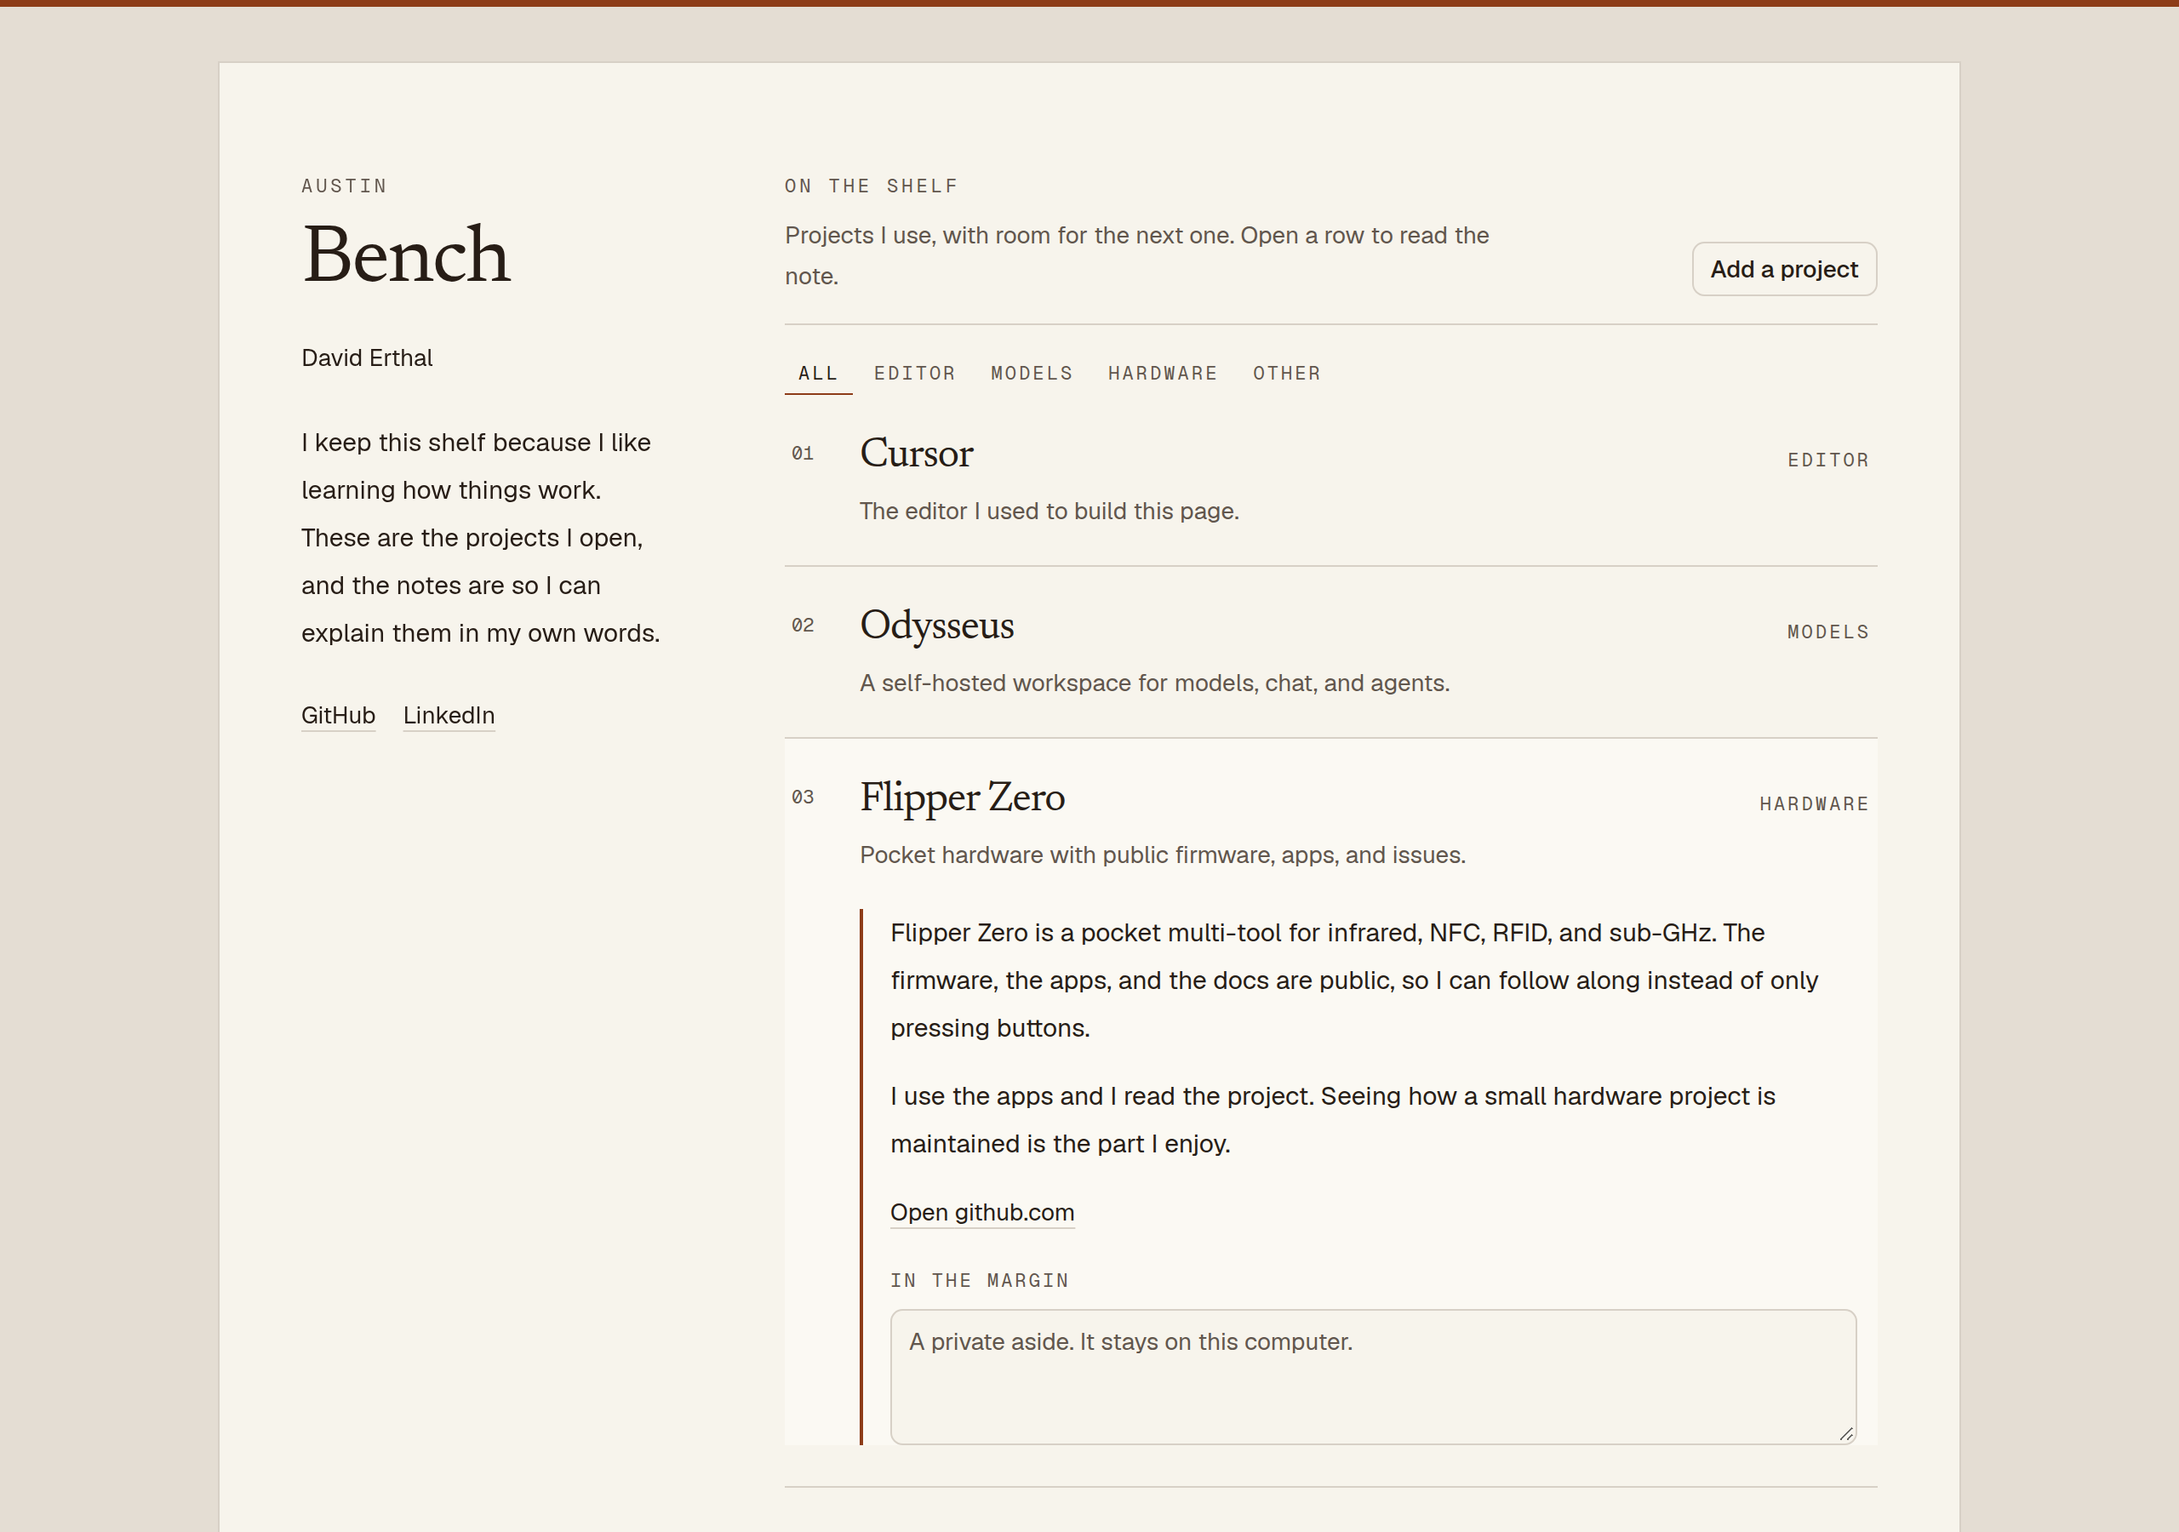
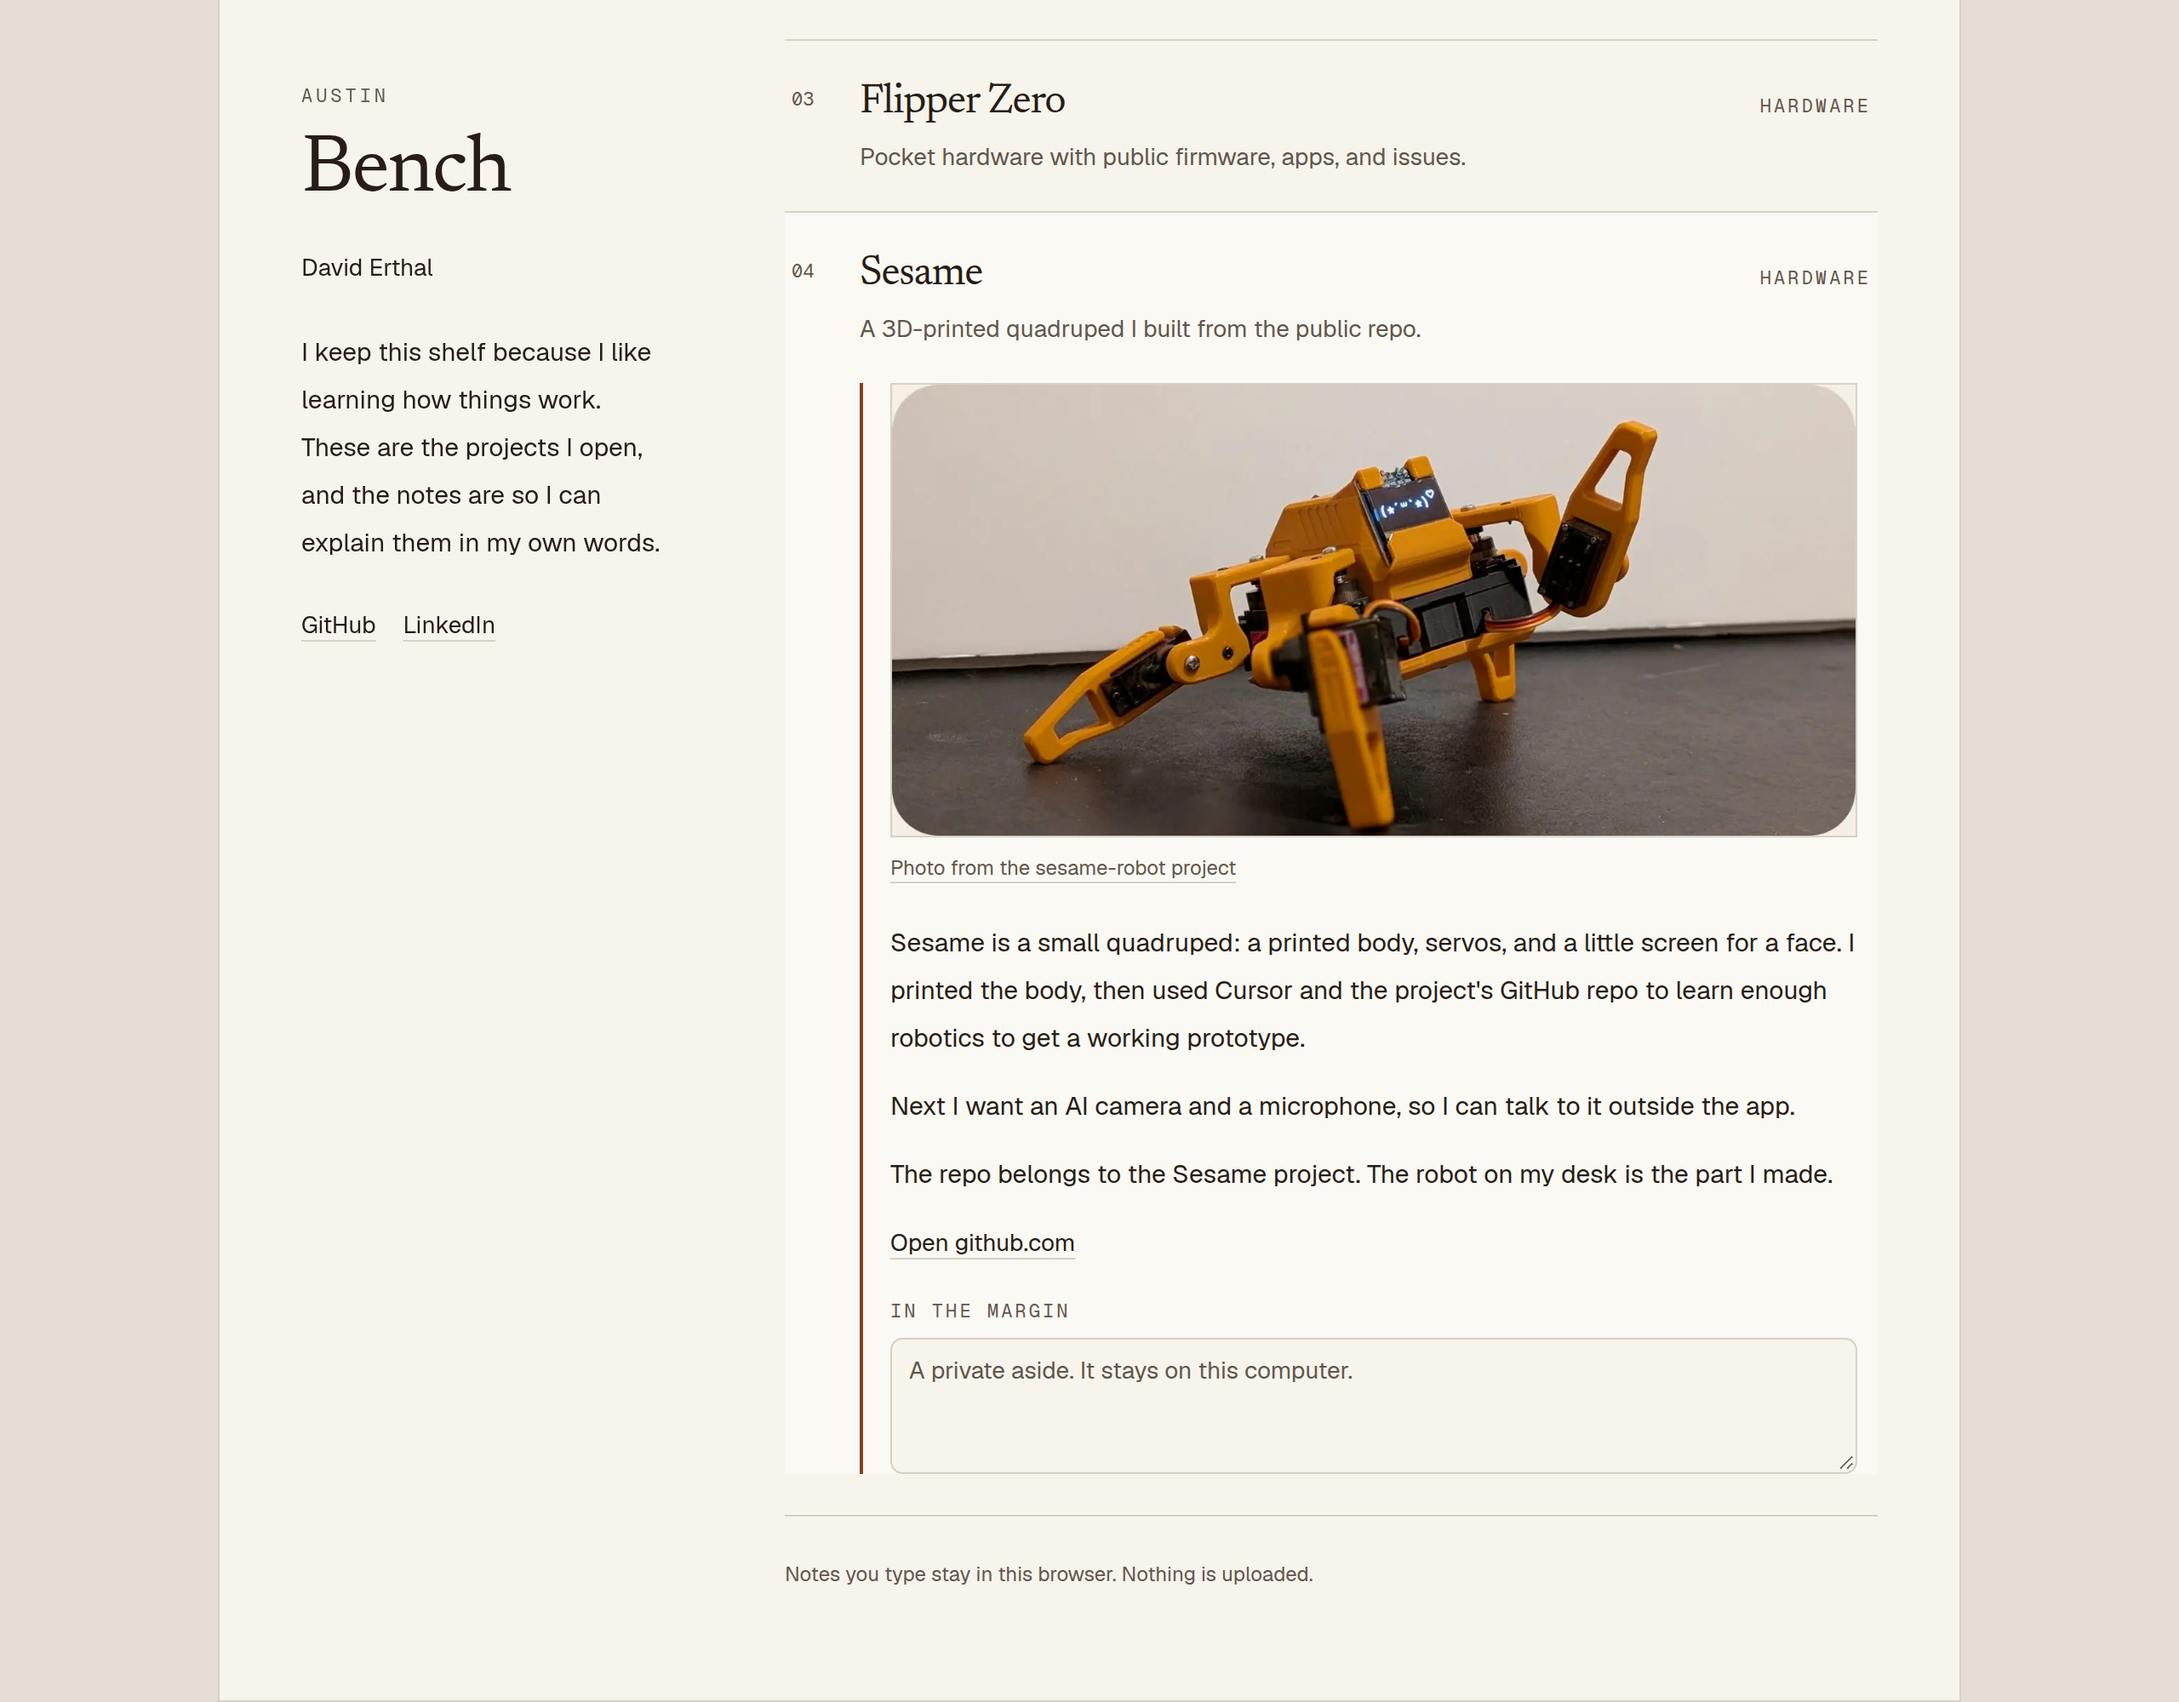
Add Sesame and photos to the shelf.
Sesame is the printed quadruped. Cursor, Flipper Zero, and Sesame now show a picture in the open note. Odysseus stays empty until a photo of the personal instance is added.

diff --git a/src/lib/shelf.ts b/src/lib/shelf.ts
@@ -14,6 +14,13 @@ export type ShelfItem = {
   summary: string
   essay: string
   origin: "seed" | "yours"
+  image?: string
+  imageAlt?: string
+  imageWidth?: number
+  imageHeight?: number
+  imageCredit?: string
+  imageCreditHref?: string
+  awaitingPhoto?: boolean
 }
 
 export type ShelfState = {
@@ -35,6 +42,12 @@ export const SEEDS: readonly ShelfItem[] = [
     essay: `I put this page together in Cursor. I describe a small thing, read what comes back, and change it until it sounds like me. That is how I learn the tool: by making something I can click, then figuring out what I still don't understand.
 
 The fun is the loop. Try something, run it, and keep going.`,
+    image: "/shelf/cursor.jpg",
+    imageAlt: "The Cursor editor, with a chat beside an open document.",
+    imageWidth: 1600,
+    imageHeight: 840,
+    imageCredit: "Screenshot from cursor.com",
+    imageCreditHref: "https://cursor.com",
     origin: "seed",
   },
   {
@@ -46,6 +59,7 @@ The fun is the loop. Try something, run it, and keep going.`,
     essay: `Odysseus is a self-hosted place to talk to models, with chat, agents, and tools, on a machine you control. I am learning it because I want to understand the pieces: where a model runs, what it can touch, and what can stay on the machine.
 
 The repo belongs to the Odysseus project. I am finding my way through it, and the note is mine.`,
+    awaitingPhoto: true,
     origin: "seed",
   },
   {
@@ -57,6 +71,31 @@ The repo belongs to the Odysseus project. I am finding my way through it, and th
     essay: `Flipper Zero is a pocket multi-tool for infrared, NFC, RFID, and sub-GHz. The firmware, the apps, and the docs are public, so I can follow along instead of only pressing buttons.
 
 I use the apps and I read the project. Seeing how a small hardware project is maintained is the part I enjoy.`,
+    image: "/shelf/flipper.jpg",
+    imageAlt: "A white Flipper Zero, its screen showing a scan.",
+    imageWidth: 1280,
+    imageHeight: 794,
+    imageCredit: "Photo by Turbospok, CC BY-SA 4.0, via Wikimedia Commons",
+    imageCreditHref: "https://commons.wikimedia.org/wiki/File:Flipper_Zero.jpg",
+    origin: "seed",
+  },
+  {
+    id: "sesame",
+    name: "Sesame",
+    href: "https://github.com/dorianborian/sesame-robot",
+    kind: "Hardware",
+    summary: "A 3D-printed quadruped I built from the public repo.",
+    essay: `Sesame is a small quadruped: a printed body, servos, and a little screen for a face. I printed the body, then used Cursor and the project's GitHub repo to learn enough robotics to get a working prototype.
+
+Next I want an AI camera and a microphone, so I can talk to it outside the app.
+
+The repo belongs to the Sesame project. The robot on my desk is the part I made.`,
+    image: "/shelf/sesame.jpg",
+    imageAlt: "A yellow 3D-printed quadruped robot with a small screen face.",
+    imageWidth: 1400,
+    imageHeight: 655,
+    imageCredit: "Photo from the sesame-robot project",
+    imageCreditHref: "https://github.com/dorianborian/sesame-robot",
     origin: "seed",
   },
 ]

diff --git a/src/components/bench.tsx b/src/components/bench.tsx
@@ -1,5 +1,6 @@
 "use client"
 
+import Image from "next/image"
 import { useState, useSyncExternalStore } from "react"
 import { toast } from "sonner"
 import { AddProjectDialog } from "@/components/add-project-dialog"
@@ -112,6 +113,46 @@ export function Bench() {
   )
 }
 
+function ShelfPicture({ item }: { item: ShelfItem }) {
+  if (item.awaitingPhoto) {
+    return (
+      <div className="mb-5 flex min-h-36 max-w-xl items-end border border-dashed border-border bg-background px-4 py-5">
+        <p className="font-serif text-xl tracking-tight text-muted-foreground">
+          A picture of my own Odysseus will go here.
+        </p>
+      </div>
+    )
+  }
+  if (!item.image) return null
+  return (
+    <figure className="mb-5 max-w-xl">
+      <Image
+        src={item.image}
+        alt={item.imageAlt ?? ""}
+        width={item.imageWidth ?? 1600}
+        height={item.imageHeight ?? 900}
+        className="h-auto w-full border border-border bg-background"
+      />
+      {item.imageCredit ? (
+        <figcaption className="mt-2 text-xs leading-5 text-muted-foreground">
+          {item.imageCreditHref ? (
+            <a
+              href={item.imageCreditHref}
+              target="_blank"
+              rel="noreferrer"
+              className="underline decoration-border underline-offset-4 hover:decoration-foreground"
+            >
+              {item.imageCredit}
+            </a>
+          ) : (
+            item.imageCredit
+          )}
+        </figcaption>
+      ) : null}
+    </figure>
+  )
+}
+
 function ShelfRow({
   item,
   index,
@@ -158,6 +199,7 @@ function ShelfRow({
               {item.kind}
             </p>
           ) : null}
+          <ShelfPicture item={item} />
           <div className="max-w-xl space-y-3 text-[15px] leading-7">
             {paragraphs.map((paragraph) => (
               <p key={paragraph}>{paragraph}</p>

diff --git a/src/lib/shelf.test.ts b/src/lib/shelf.test.ts
@@ -74,7 +74,13 @@ describe("parseShelfState", () => {
 describe("visibleItems", () => {
   it("filters seeds by kind and keeps All intact", () => {
     expect(visibleItems(SEEDS, "All")).toHaveLength(SEEDS.length)
-    expect(visibleItems(SEEDS, "Hardware").map((item) => item.id)).toEqual(["flipper"])
+    expect(visibleItems(SEEDS, "Hardware").map((item) => item.id)).toEqual(["flipper", "sesame"])
+    expect(SEEDS.find((item) => item.id === "odysseus")?.awaitingPhoto).toBe(true)
+    expect(SEEDS.filter((item) => item.image).map((item) => item.id)).toEqual([
+      "cursor",
+      "flipper",
+      "sesame",
+    ])
     expect(visibleItems(combinedShelf({ yours: [], margins: {} }), "Editor")).toHaveLength(1)
   })
 })

diff --git a/src/app/layout.tsx b/src/app/layout.tsx
@@ -24,7 +24,7 @@ const newsreader = Newsreader({
 export const metadata: Metadata = {
   title: "Bench — David Erthal",
   description:
-    "A shelf of the projects David Erthal actually uses: Cursor, Odysseus, and Flipper Zero.",
+    "A shelf of the projects David Erthal actually uses: Cursor, Odysseus, Flipper Zero, and Sesame.",
 };
 
 export default function RootLayout({ children }: { children: ReactNode }) {

diff --git a/README.md b/README.md
@@ -2,9 +2,9 @@
 
 A small shelf of the projects David Erthal actually uses.
 
-David Erthal keeps a shelf of projects he uses and learns from: Cursor, [Odysseus](https://github.com/odysseus-dev/odysseus), and [Flipper Zero](https://github.com/flipperdevices/flipperzero-firmware), with room to add the next thing. Notes typed into the page stay in the browser. Nothing is uploaded.
+David Erthal keeps a shelf of projects he uses and learns from: Cursor, [Odysseus](https://github.com/odysseus-dev/odysseus), [Flipper Zero](https://github.com/flipperdevices/flipperzero-firmware), and [Sesame](https://github.com/dorianborian/sesame-robot), with room to add the next thing. Notes typed into the page stay in the browser. Nothing is uploaded.
 
-![Bench, with the Flipper Zero note open](docs/bench.png)
+![Bench, with the Sesame note open](docs/bench.png)
 
 ## Run it
 
@@ -19,7 +19,8 @@ Open the URL Next prints. `npm test` checks the shelf logic. `npm run lint` chec
 
 | File | What it is |
 | --- | --- |
-| `src/lib/shelf.ts` | The three writeups, plus the rules for adding a project |
+| `src/lib/shelf.ts` | The writeups, plus the rules for adding a project |
+| `public/shelf/` | Photos for the notes. Odysseus is waiting on a picture of David's own instance. |
 | `src/components/bench.tsx` | The page: open a row, filter, type a margin note |
 | `src/components/add-project-dialog.tsx` | The form for a project of your own |
 | `profile/README.md` | The text for a GitHub profile page |

diff --git a/profile/README.md b/profile/README.md
@@ -6,10 +6,11 @@ Bench is a shelf of projects I use and learn from.
 
 ## On the bench
 
-- **[Bench](https://github.com/elitetamama/bench)** — notes on the projects I use, starting with Cursor, Odysseus, and Flipper Zero
+- **[Bench](https://github.com/elitetamama/bench)** — notes on the projects I use, starting with Cursor, Odysseus, Flipper Zero, and Sesame
 - [Cursor](https://cursor.com) — the editor I used to build Bench
 - [Odysseus](https://github.com/odysseus-dev/odysseus) — a self-hosted AI workspace
 - [Flipper Zero firmware](https://github.com/flipperdevices/flipperzero-firmware) — public firmware and apps for the pocket multi-tool
+- [Sesame](https://github.com/dorianborian/sesame-robot) — a 3D-printed quadruped I built from the public repo
 
 ## Elsewhere
 

diff --git a/PUBLISHING.md b/PUBLISHING.md
@@ -21,8 +21,10 @@ That file is the page at [github.com/elitetamama](https://github.com/elitetamama
 
 On [your profile settings](https://github.com/settings/profile), a bio that matches this shelf is:
 
-`Learning in public. Cursor, local models, and a Flipper Zero.`
+`Learning in public. Cursor, local models, a Flipper Zero, and a printed robot.`
 
-## Odysseus and Flipper
+## Odysseus, Flipper, and Sesame
 
 Leave them as links. Starring a repository is fine. A fork on this account would look like a project you maintain.
+
+The Odysseus note is waiting on a photo of your own instance. When you have it, put the file at `public/shelf/odysseus.jpg` and say so. The other photos are already in `public/shelf/`.
